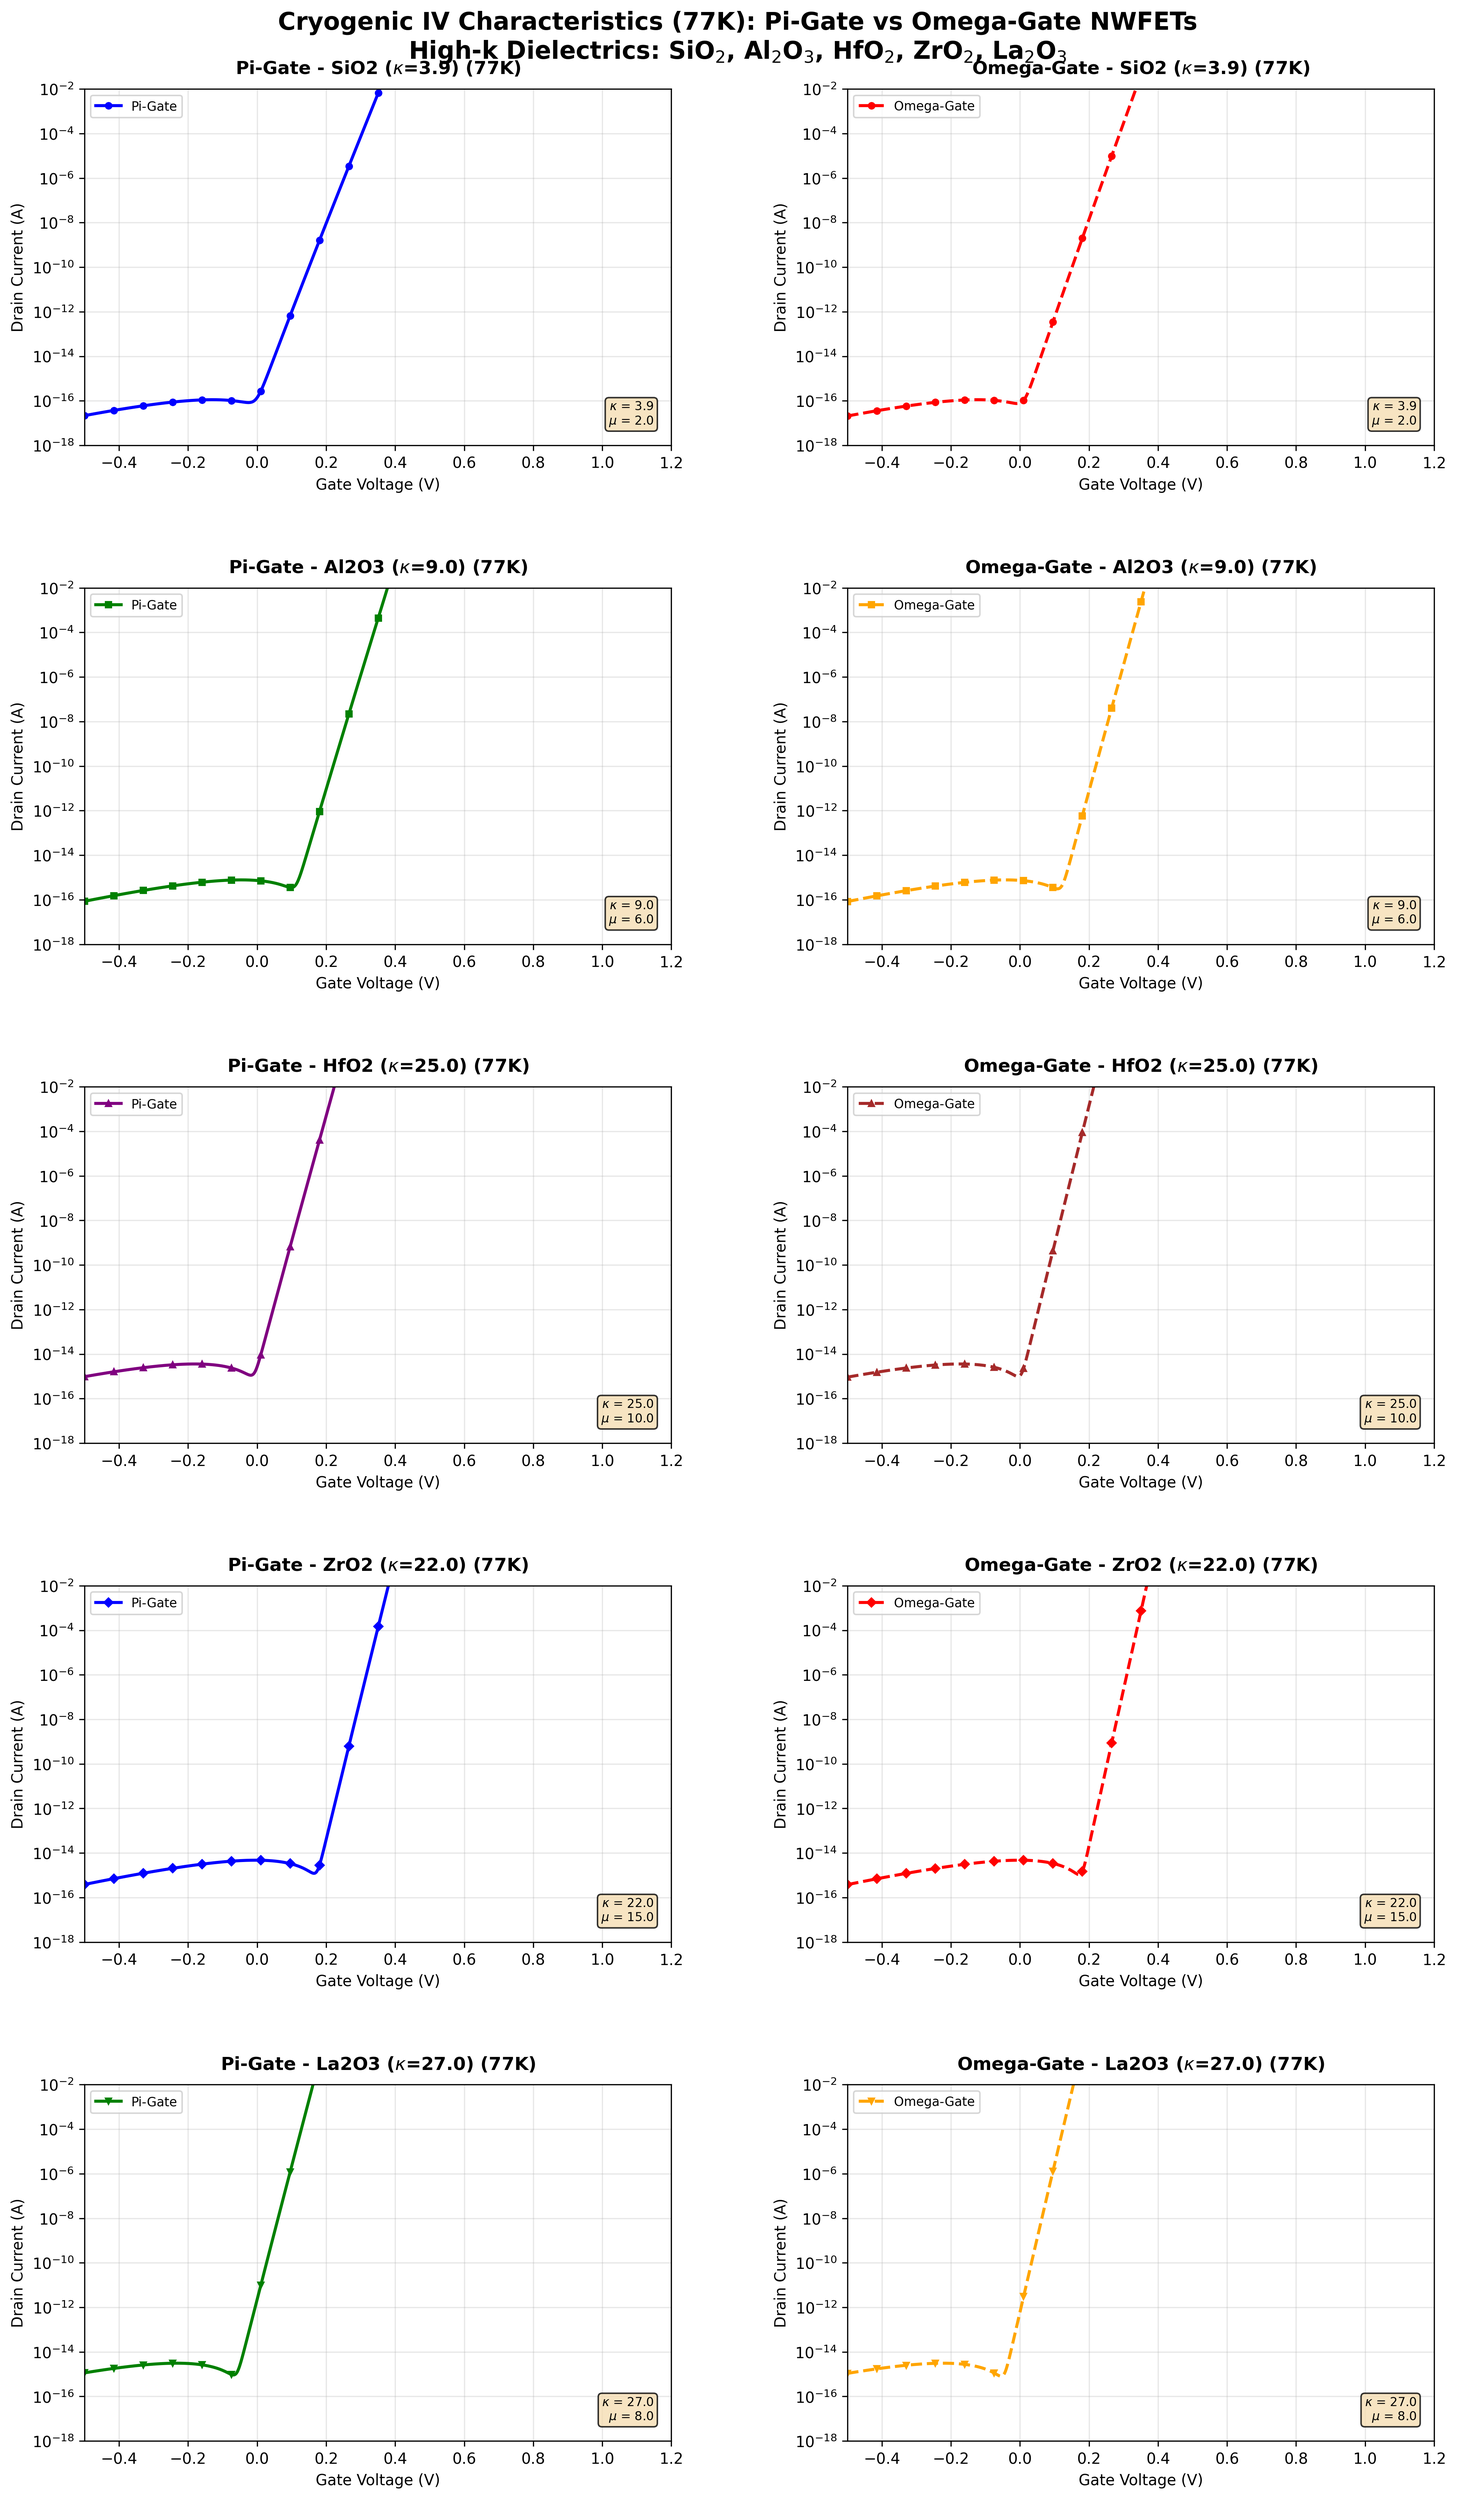
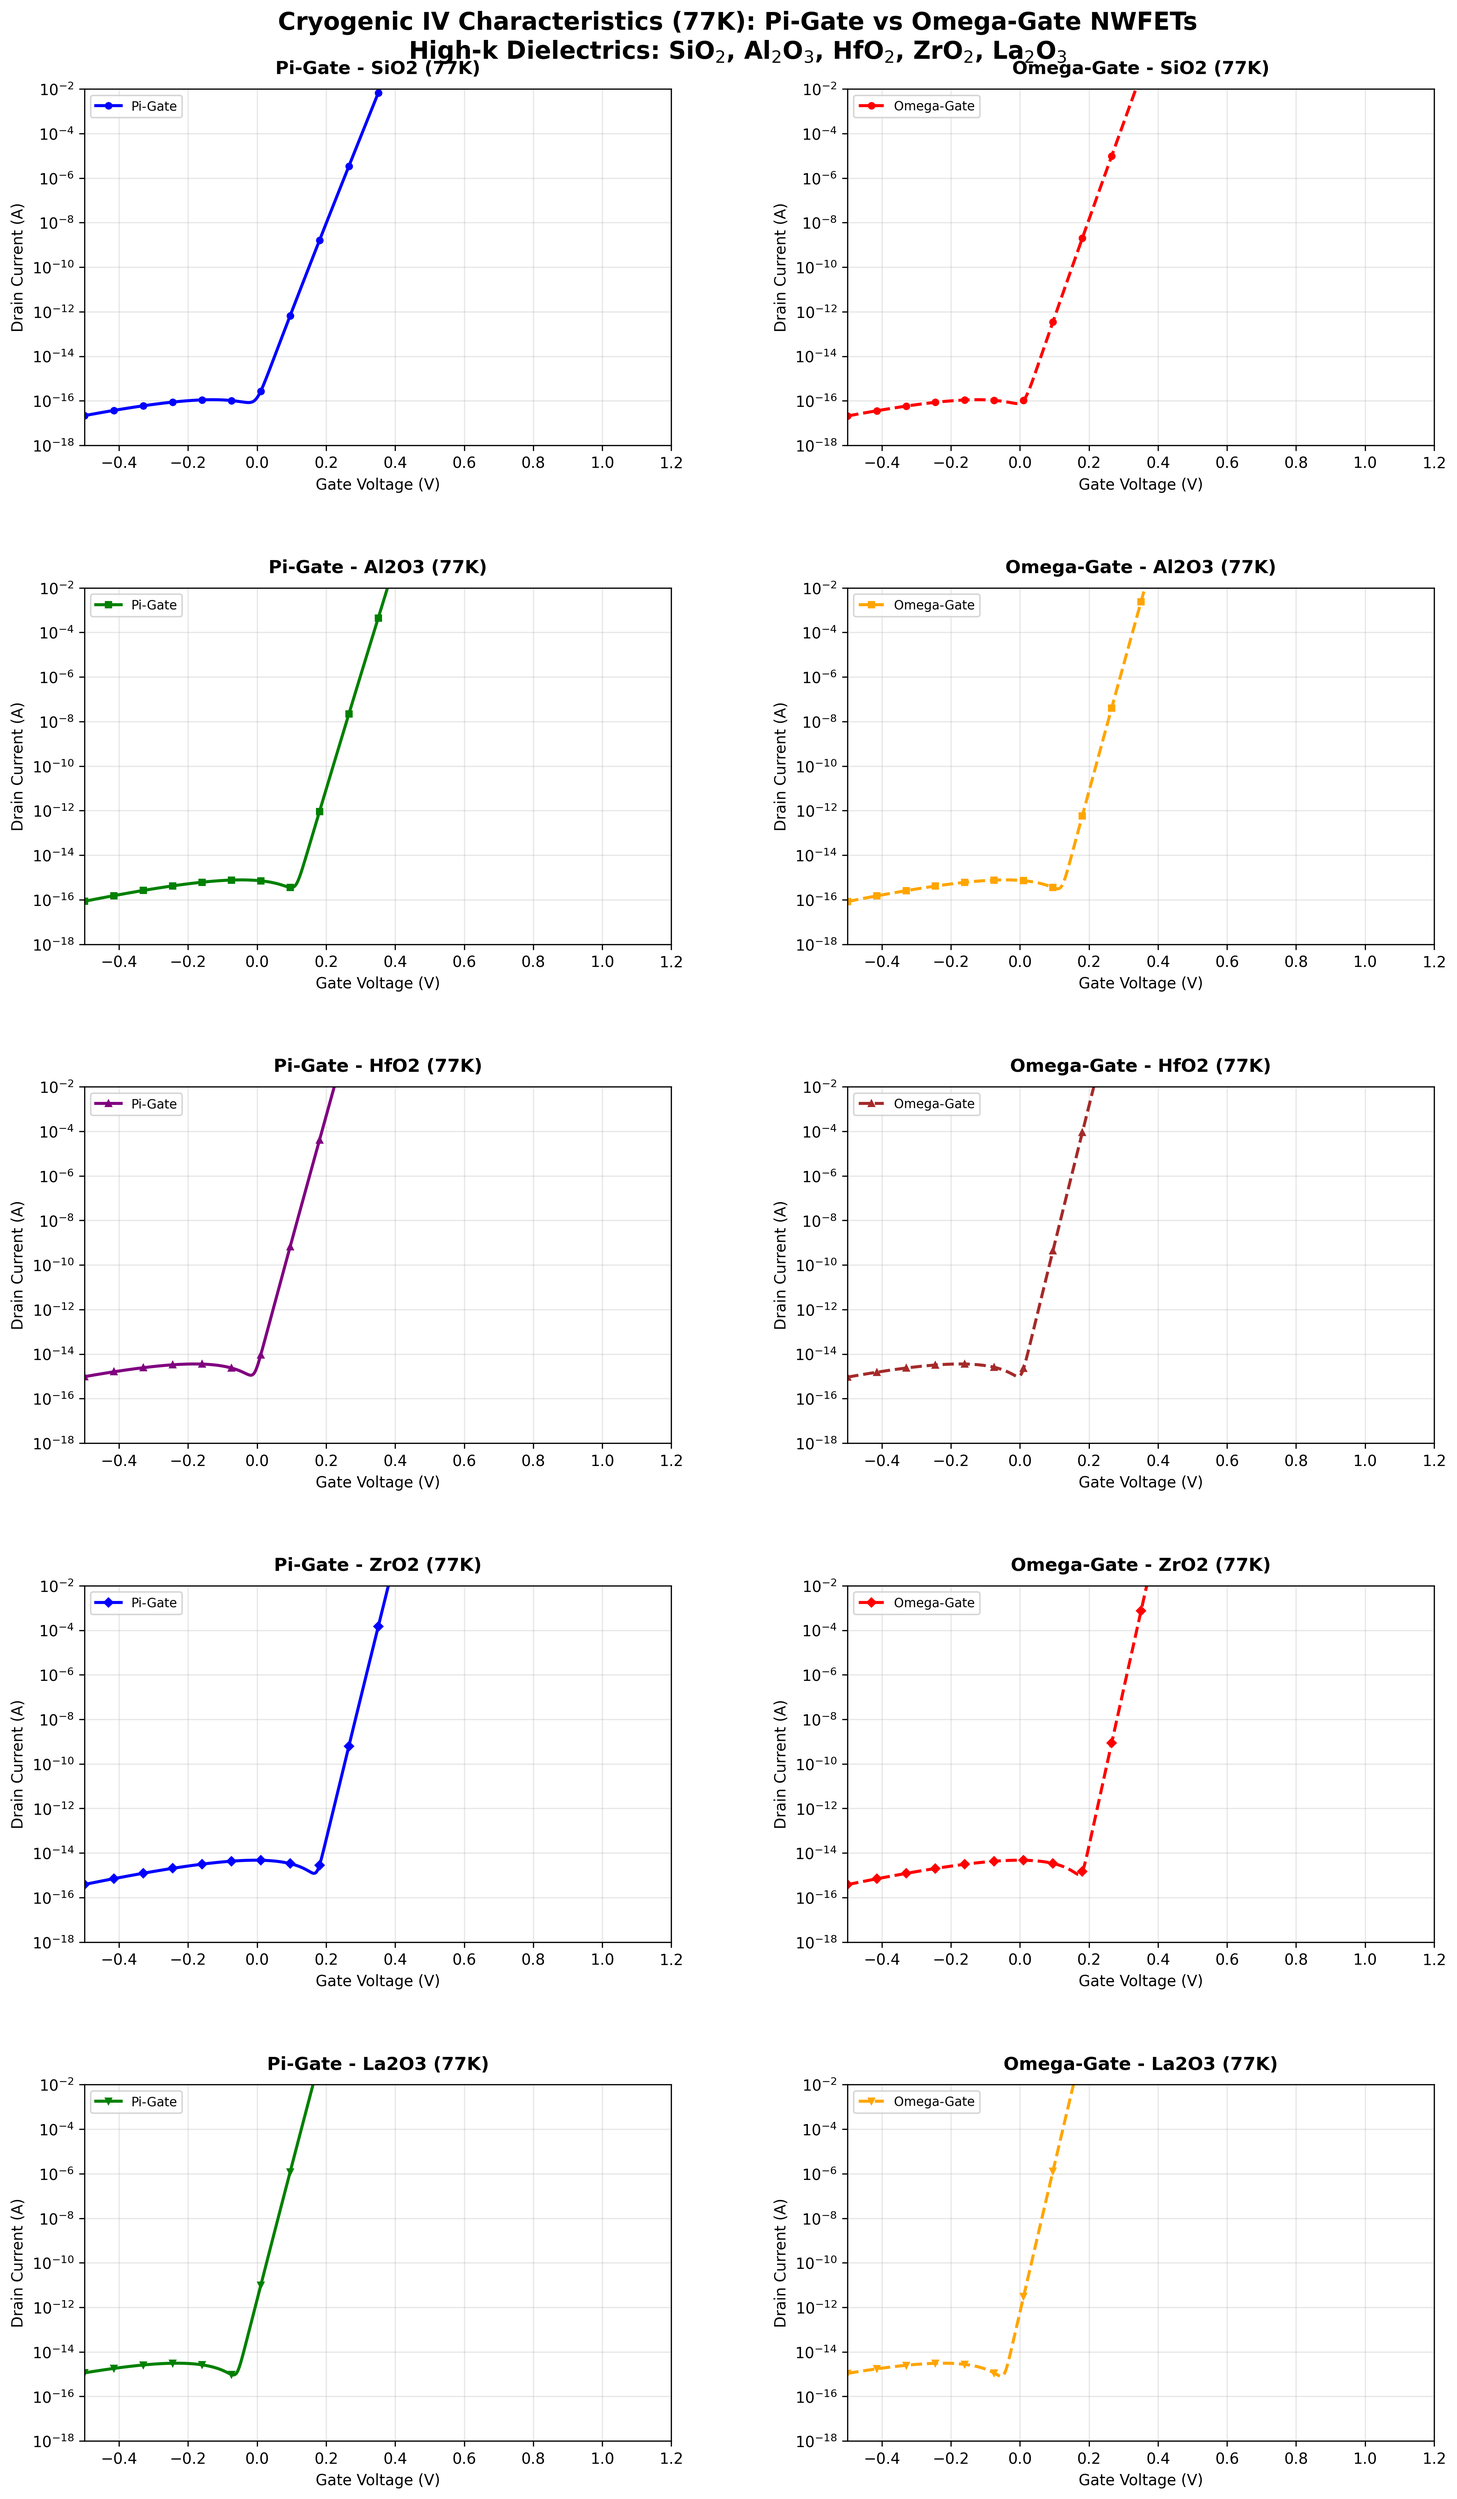
Remove kappa values from titles and annotation boxes from all subplots

diff --git a/generate_cryogenic_iv.py b/generate_cryogenic_iv.py
@@ -102,8 +102,7 @@ for i, material in enumerate(materials):
                    label=f'{gate}')
 
         # Enhanced axis formatting
-        kappa_val = material_params[material]['kappa']
-        ax.set_title(f"{gate} - {material} ($\\kappa$={kappa_val}) (77K)", fontsize=12, pad=10, fontweight='bold')
+        ax.set_title(f"{gate} - {material} (77K)", fontsize=12, pad=10, fontweight='bold')
         ax.set_xlabel("Gate Voltage (V)", fontsize=10)
         ax.set_ylabel("Drain Current (A)", fontsize=10)
         ax.set_xlim(-0.5, 1.2)
@@ -111,14 +110,7 @@ for i, material in enumerate(materials):
         ax.grid(True, which="both", ls="-", alpha=0.3)
         ax.legend(fontsize='small', loc='upper left')
 
-        # Add parameter annotations
-        params = material_params[material]
-        gate_param = gate_params[gate]
-        ax.text(0.97, 0.05,
-               f"$\\kappa$ = {params['kappa']:.1f}\n$\\mu$ = {params['mu_factor']:.1f}",
-               transform=ax.transAxes, fontsize=8, verticalalignment='bottom',
-               horizontalalignment='right',
-               bbox=dict(boxstyle='round', facecolor='wheat', alpha=0.8))
+
 
 # Overall title
 plt.suptitle('Cryogenic IV Characteristics (77K): Pi-Gate vs Omega-Gate NWFETs\n' +

diff --git a/generate_temperature_plot.py b/generate_temperature_plot.py
@@ -137,7 +137,7 @@ for i, material in enumerate(materials):
                        linewidth=2,
                        label=f'{T}K')
 
-        ax.set_title(f"{gate} - {material} ($\\kappa$={material_params[material]['kappa']}) (Temperature Sweep)", fontsize=12, pad=10, fontweight='bold')
+        ax.set_title(f"{gate} - {material} (Temperature Sweep)", fontsize=12, pad=10, fontweight='bold')
         ax.set_xlabel("Gate Voltage (V)", fontsize=10)
         ax.set_ylabel("Drain Current (A)", fontsize=10)
         ax.set_xlim(-0.5, 1.2)
@@ -145,13 +145,7 @@ for i, material in enumerate(materials):
         ax.grid(True, which="both", ls="-", alpha=0.3)
         ax.legend(fontsize='small', loc='upper left')
 
-        # Add parameter annotations
-        params = material_params[material]
-        ax.text(0.97, 0.05,
-               f"$\\kappa$ = {params['kappa']:.1f}\n$\\mu_0$ = {params['base_mu']}",
-               transform=ax.transAxes, fontsize=8, verticalalignment='bottom',
-               horizontalalignment='right',
-               bbox=dict(boxstyle='round', facecolor='wheat', alpha=0.8))
+
 
 # Overall title
 plt.suptitle('Temperature-Dependent Transfer Characteristics: Pi-Gate vs Omega-Gate NWFETs\n' +
